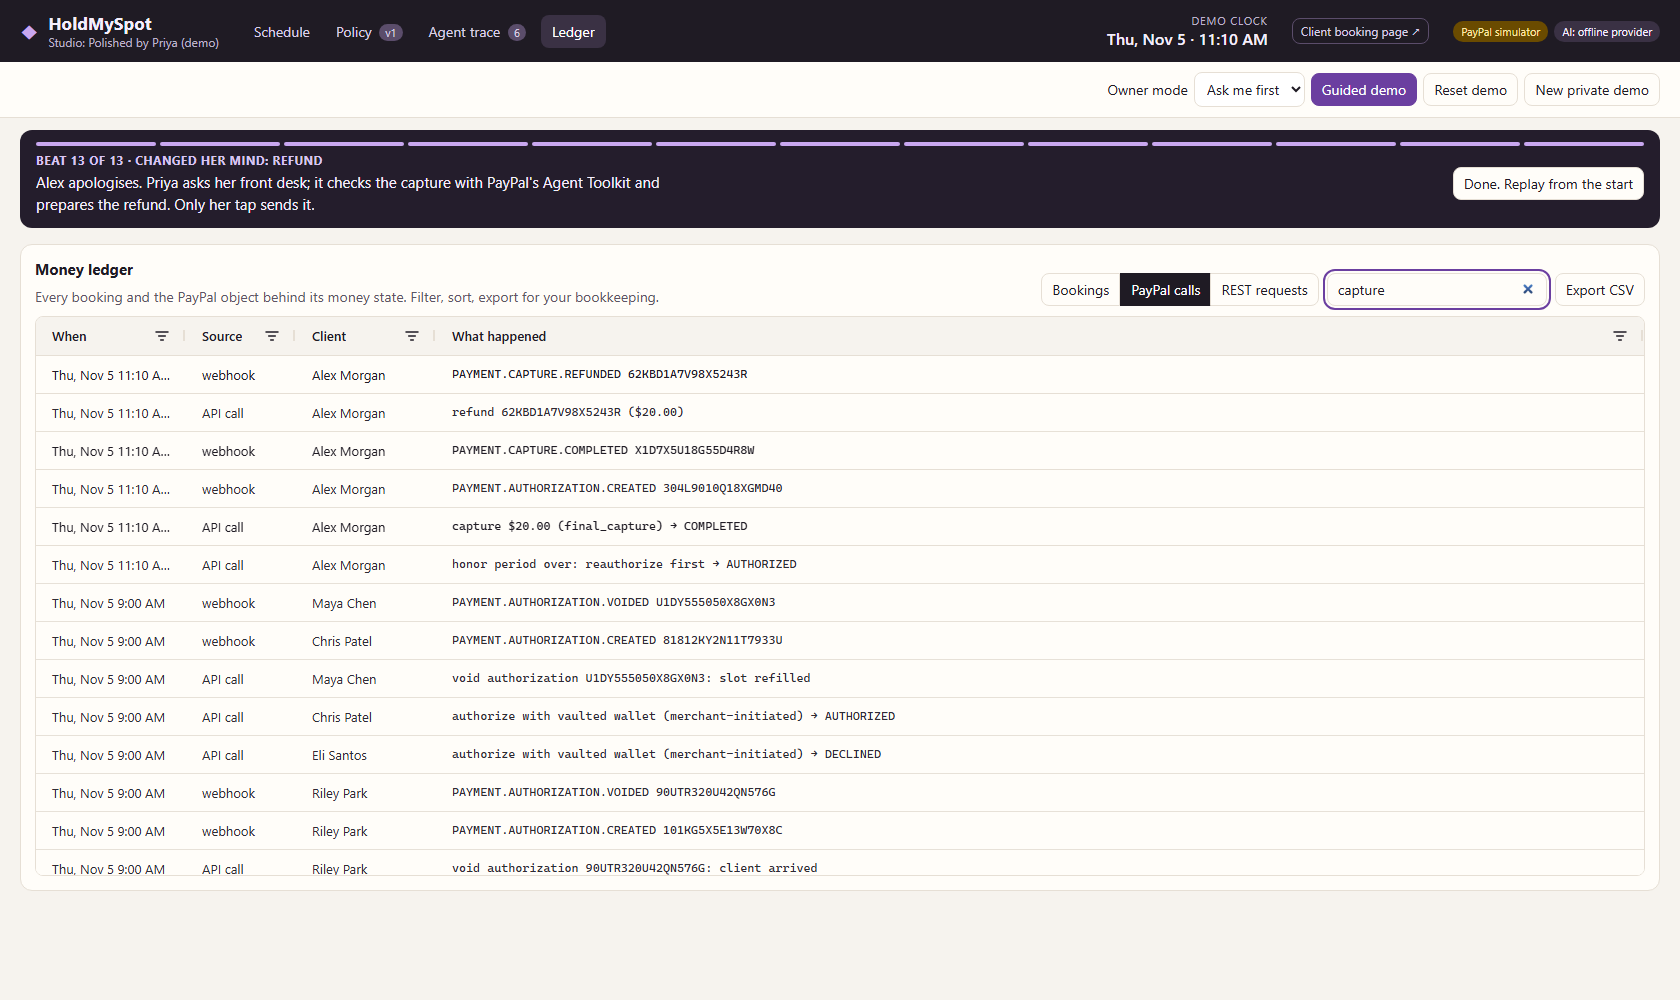
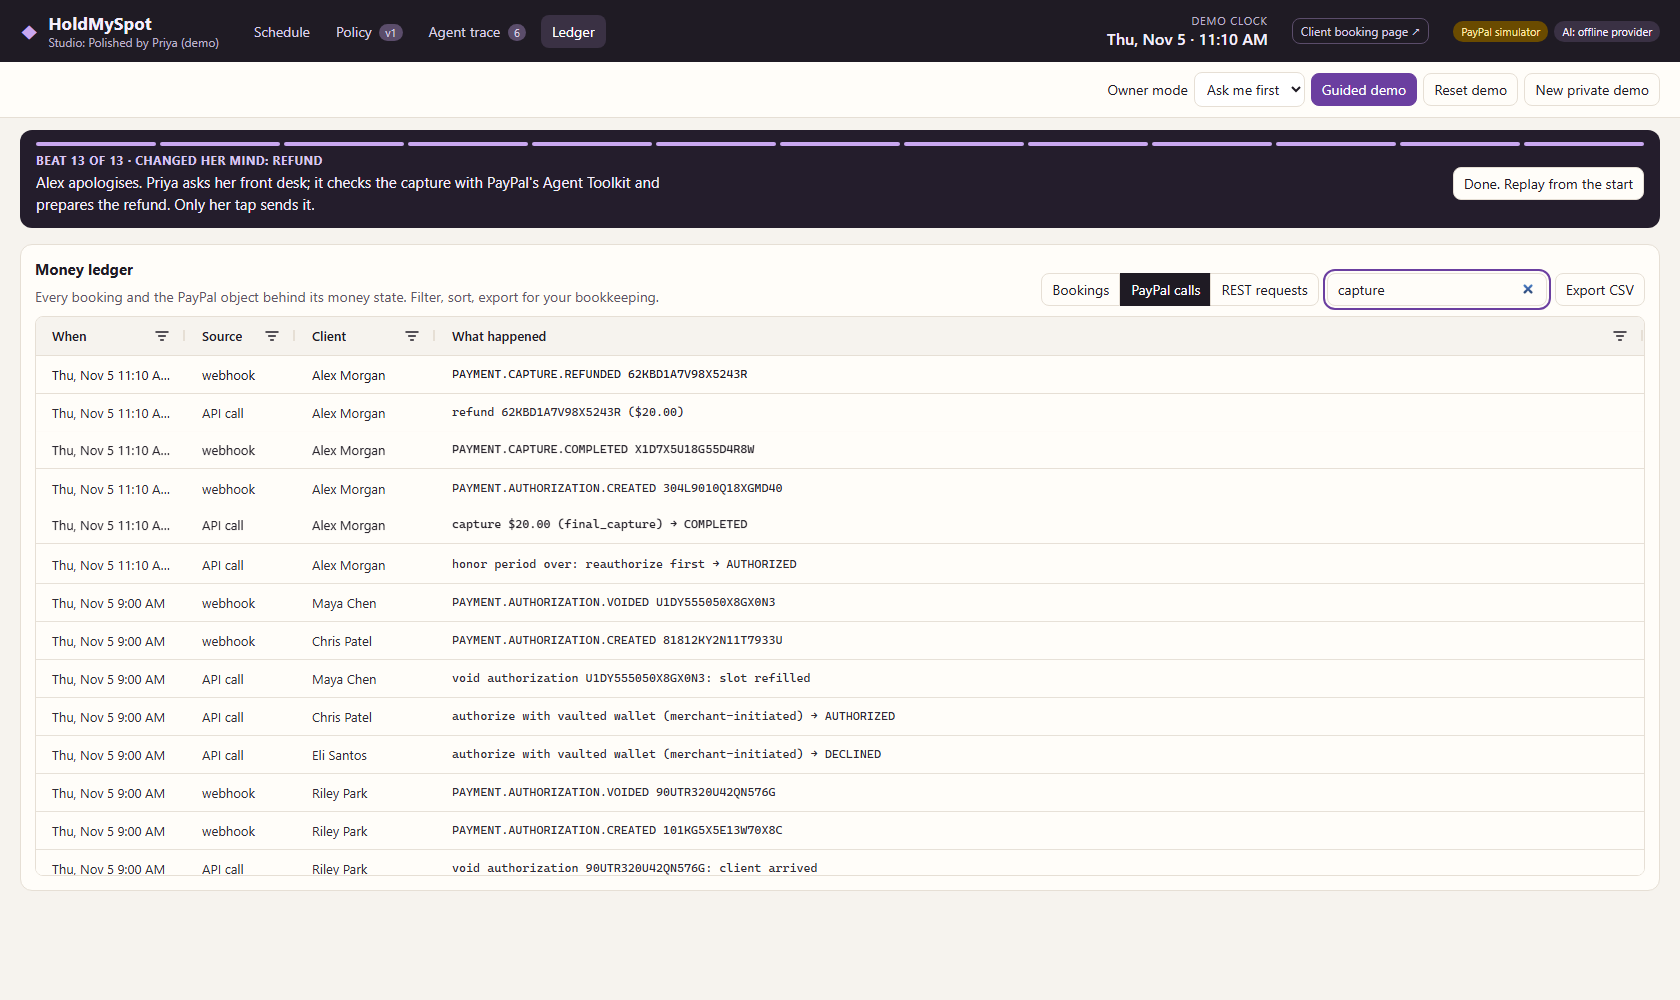
Ledger fits 17-character PayPal ids (authorization and capture columns); gallery and ui-check screenshots refreshed

diff --git a/web/src/Ledger.tsx b/web/src/Ledger.tsx
@@ -187,9 +187,9 @@ export function Ledger({ s, api, onSelect }: { s: Snapshot; api: Api; onSelect: 
 
   const cols = useMemo<(ColDef<Row> | ColGroupDef<Row>)[]>(
     () => [
-      { field: 'client', headerName: 'Client', minWidth: 122, flex: 1, pinned: 'left' },
-      { field: 'start', headerName: 'When', minWidth: 172, flex: 1, sort: 'asc', valueFormatter: (p) => (p.value ? `${fmtDay(p.value)} ${fmtTime(p.value)}` : ''), filter: false },
-      { field: 'service', headerName: 'Service', width: 122 },
+      { field: 'client', headerName: 'Client', width: 140, pinned: 'left' },
+      { field: 'start', headerName: 'When', width: 160, sort: 'asc', valueFormatter: (p) => (p.value ? `${fmtDay(p.value)} ${fmtTime(p.value)}` : ''), filter: false },
+      { field: 'service', headerName: 'Service', width: 124 },
       {
         headerName: 'Money',
         children: [
@@ -207,14 +207,14 @@ export function Ledger({ s, api, onSelect }: { s: Snapshot; api: Api; onSelect: 
           { field: 'keptCents', headerName: 'Kept (net)', headerTooltip: 'Charged minus refunded: what the owner actually keeps', minWidth: 112, flex: 1, type: 'rightAligned', valueFormatter: (p) => (p.data?.id === 'total' ? usd(p.value ?? 0) : money(p)), filter: 'agNumberColumnFilter' },
         ],
       },
-      { field: 'state', headerName: 'Booking state', width: 160 },
-      { field: 'refill', headerName: 'Refill', width: 180, tooltipField: 'refill' },
+      { field: 'state', headerName: 'Booking state', width: 168 },
+      { field: 'refill', headerName: 'Refill', width: 162, tooltipField: 'refill' },
       {
         headerName: 'PayPal objects behind it',
         children: [
-          { field: 'authorizationId', headerName: 'Authorization', minWidth: 140, flex: 1, cellClass: 'mono' },
-          { field: 'captureId', headerName: 'Capture', minWidth: 148, flex: 1, cellClass: 'mono' },
-          { field: 'refundId', headerName: 'Refund', minWidth: 148, flex: 1, cellClass: 'mono' },
+          { field: 'authorizationId', headerName: 'Authorization', minWidth: 172, flex: 1, cellClass: 'mono' },
+          { field: 'captureId', headerName: 'Capture', minWidth: 172, flex: 1, cellClass: 'mono' },
+          { field: 'refundId', headerName: 'Refund', minWidth: 172, flex: 1, cellClass: 'mono' },
         ],
       },
       { field: 'policy', headerName: 'Policy', minWidth: 112, flex: 1, cellClass: 'mono' },
@@ -258,7 +258,7 @@ export function Ledger({ s, api, onSelect }: { s: Snapshot; api: Api; onSelect: 
             </div>
             <label className="ledger-search">
               <span className="sr-only">Search the ledger</span>
-              <input type="search" placeholder="Search: client, charged, PayPal id…" value={filter} onChange={(e) => setFilter(e.target.value)} />
+              <input type="search" placeholder="Search: client, state, id…" value={filter} onChange={(e) => setFilter(e.target.value)} />
             </label>
             <button onClick={() => gridRef.current?.exportDataAsCsv({ fileName: `holdmyspot-${view}.csv` })}>Export CSV</button>
           </div>
